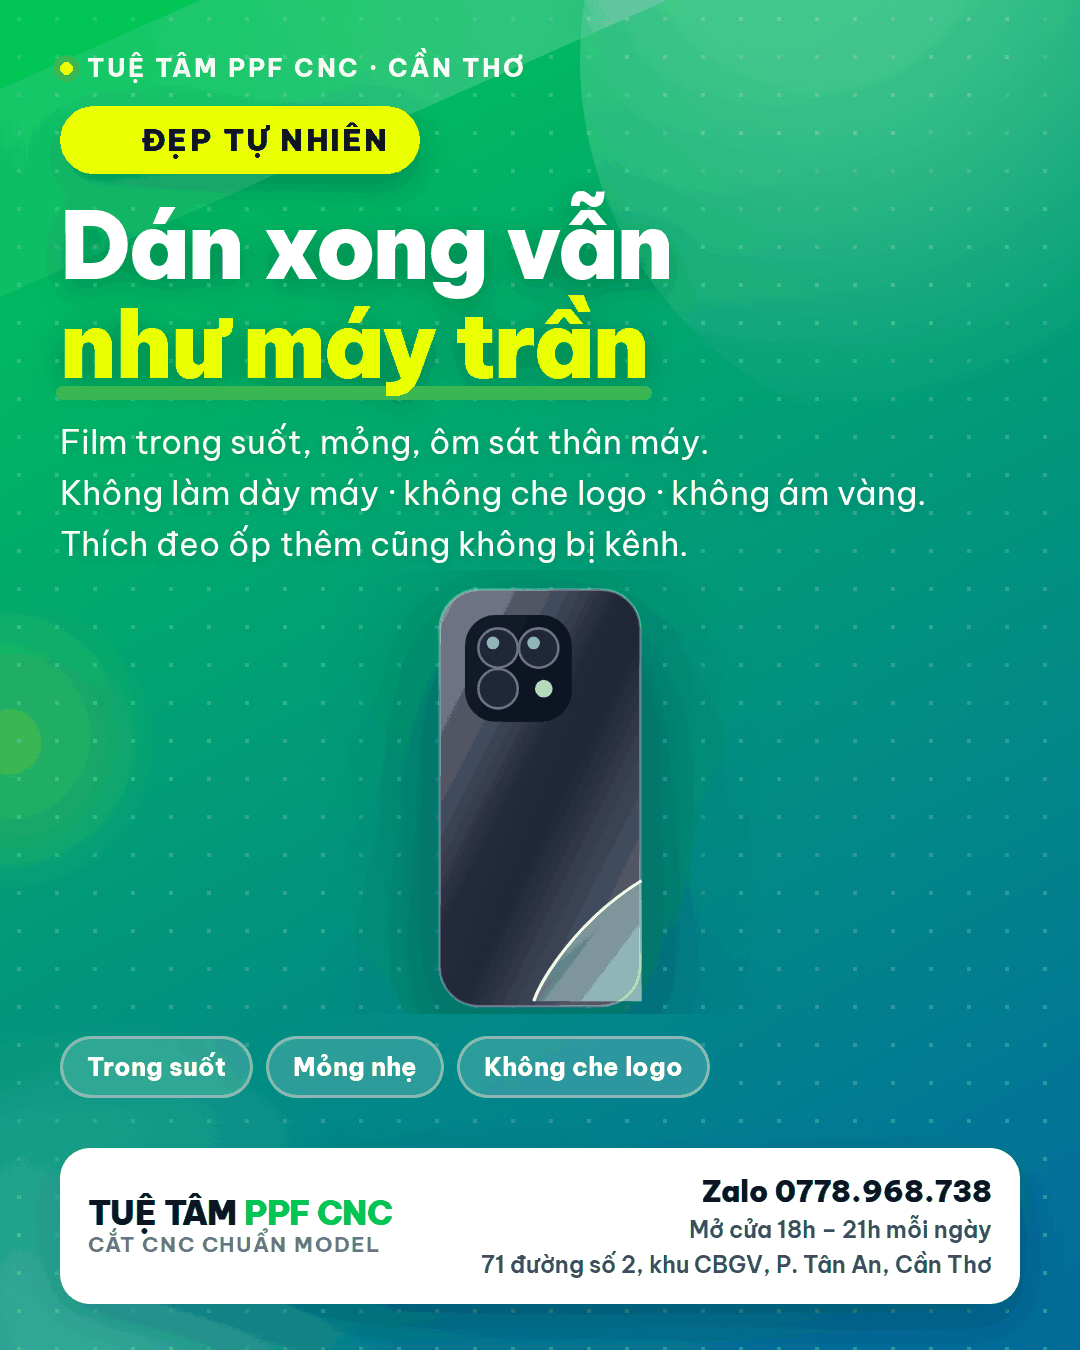
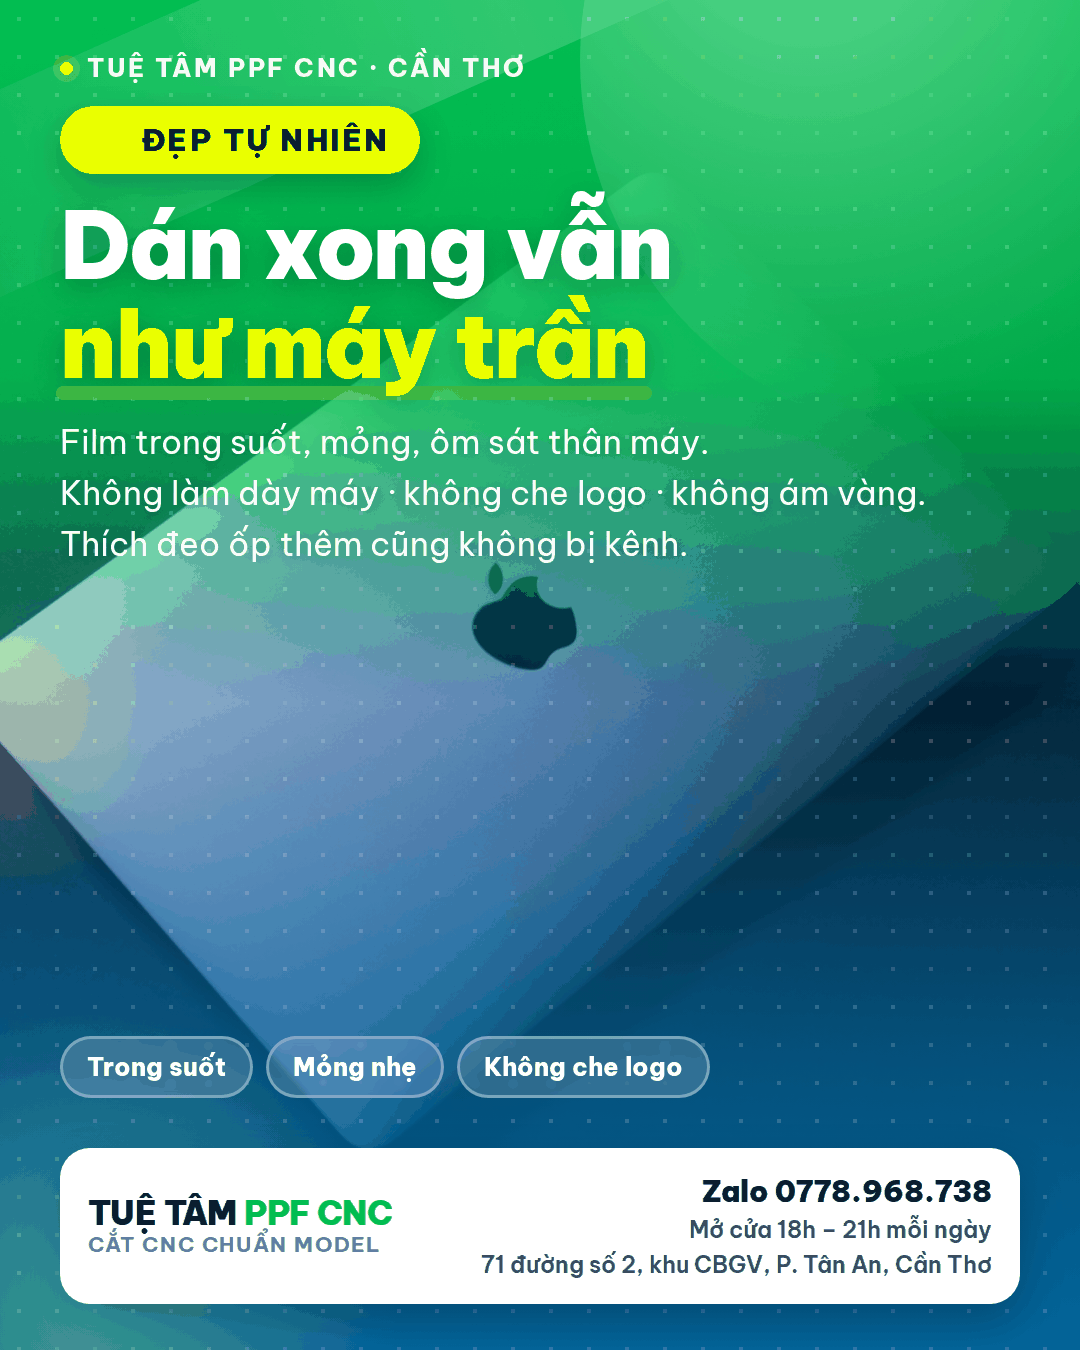
Dung anh chup that lam nen cho 5 bai (laptop, tiem)
- Them co che anh nen full-bleed: bai nao co anh trong media/thuc-te/
  thi anh phu kin tam 1080x1350, phu mot lop mau thuong hieu de chu van
  doc ro, thay cho khung anh nho truoc day.
- Anh laptop that cho bai 04 (laptop tray nap), 11 (dep tu nhien),
  16 (bao gia nhanh). Bai 08 (gio mo cua) va 12 (dia chi) dung anh mat
  tien tiem.
- Bai gio mo cua: bo dong "18h - 21h" khong lo khi da co anh nen,
  tranh de chu len bang hieu.
- render_png.py them tuy chon --net-cao de giu mau goc cho tam co anh
  chup that (mac dinh van nen lai cho file nhe).

Claude-Session: https://claude.ai/code/session_017SFhPnJtoMKDMb2h8va2Fo

diff --git a/tools/gen_infographics.py b/tools/gen_infographics.py
@@ -347,6 +347,10 @@ body{width:%(W)dpx;height:%(H)dpx;font-family:'BVP','Be Vietnam Pro',
     background:radial-gradient(circle at 50%% 50%%,%(soft)s6b,#ffffff00 70%%)}
 .b3{width:300px;height:300px;top:44%%;left:-140px;
     background:radial-gradient(circle,%(ac)s3d,#ffffff00 70%%)}
+.bgphoto{position:absolute;inset:0;background-size:cover;background-position:%(pos)s;
+          filter:saturate(1.05)}
+.scrim{position:absolute;inset:0;background:linear-gradient(180deg,
+       %(c1)sf0 0%%,%(c1)sd6 28%%,%(c2)s4a 52%%,%(c2)sb8 78%%,%(c2)sf5 100%%)}
 .dots{position:absolute;inset:0;opacity:.16;
       background-image:radial-gradient(#fff 2.4px,transparent 2.4px);
       background-size:38px 38px}
@@ -432,7 +436,7 @@ h1{margin-top:22px;font-size:%(tsize)dpx;line-height:1.08;font-weight:900;
 """
 
 TPL = """<meta charset="utf-8"><style>%(font)s%(css)s</style>
-<div class="bg"><div class="ray"></div><div class="dots"></div>
+<div class="bg">%(bgphoto)s<div class="ray"></div><div class="dots"></div>
 <div class="blob b1"></div><div class="blob b2"></div><div class="blob b3"></div></div>
 <div class="card">
   <div class="top"><span class="dot"></span>TUỆ TÂM PPF CNC · CẦN THƠ</div>
@@ -475,19 +479,21 @@ def _panel(kind, title, items):
     )
 
 
-def build_body(post):
+def build_body(post, anh_nen=False):
+    """anh_nen=True nghia la tam nay da co anh that lam nen -> khong ve mockup."""
     lay = post["layout"]
-    photo = anh_that(post["id"])
 
     if lay in ("hero", "cta"):
-        if photo:
-            visual = '<div class="stage"><img class="photo" src="%s"></div>' % photo
+        if anh_nen:
+            visual = ""
         elif lay == "cta":
             visual = '<div class="stage">%s</div>' % DEVICES["combo"]()
         else:
             visual = '<div class="stage">%s</div>' % DEVICES[post["device"]]()
         extra = ('<div class="zbox"><div class="lbl">NHẮN ZALO</div>'
                  '<div class="num2">%s</div></div>' % ZALO) if lay == "cta" else ""
+        if anh_nen and lay == "hero":
+            extra = '<div class="stage"></div>'  # chua cho anh nen tho ra
         return _lines(post) + visual + extra
 
     if lay in ("compare", "policy"):
@@ -507,10 +513,9 @@ def build_body(post):
         return '<div class="items">%s</div>' % items
 
     if lay in ("hours", "address"):
-        src = photo or data_uri(REPO / "media" / "mat-tien.jpg")
-        big = '<div class="big">18h – 21h</div>' if lay == "hours" else ""
-        return (_lines(post) + big +
-                '<div class="stage"><img class="photo" src="%s"></div>' % src)
+        # Co anh nen thi bo dong gio khong lo di cho khoi de len bang hieu.
+        big = '<div class="big">18h – 21h</div>' if lay == "hours" and not anh_nen else ""
+        return _lines(post) + big + '<div class="stage"></div>' 
 
     raise ValueError("layout la: " + lay)
 
@@ -520,12 +525,18 @@ def main():
     manifest = []
     for p in POSTS:
         th = THEMES[p["theme"]]
+        src = anh_that(p["id"])
+        if not src and p["layout"] in ("hours", "address"):
+            src = data_uri(REPO / "media" / "mat-tien.jpg")
+        bgphoto = ('<div class="bgphoto"></div><div class="scrim"></div>') if src else ""
         longest = max(len(_plain(l)) for l in p["title"].split("\n"))
         tsize = 92 if longest <= 18 else (82 if longest <= 24 else 72)
-        css = CSS % dict(W=W, H=H, tsize=tsize, **th)
+        css = CSS % dict(W=W, H=H, tsize=tsize, pos=p.get("photo_pos", "center"), **th)
+        if src:
+            css += ".bgphoto{background-image:url(%s)}" % src
         html = TPL % dict(
-            font=font, css=css, emoji=p["emoji"], kicker=p["kicker"],
-            title=_hl(p["title"]), body=build_body(p), chips=_chips(p),
+            font=font, css=css, emoji=p["emoji"], kicker=p["kicker"], bgphoto=bgphoto,
+            title=_hl(p["title"]), body=build_body(p, bool(src)), chips=_chips(p),
             zalo=ZALO, hours=HOURS, addr=ADDR,
         )
         name = "ppf-%s" % p["id"]

diff --git a/tools/render_png.py b/tools/render_png.py
@@ -31,7 +31,17 @@ def chrome():
     sys.exit("Khong tim thay Chrome/Chromium — dat bien moi truong CHROME=...")
 
 
-def nen(path):
+# Mac dinh ha bang mau 256 (file nhe gap ~6 lan, len Facebook nhin nhu nhau).
+# Muon giu mau goc cho tam co anh chup that thi chay them co --net-cao.
+NET_CAO = "--net-cao" in sys.argv
+
+
+def co_anh_that(html_path):
+    """Tam nao dung anh chup that lam nen (de chon che do nen anh)."""
+    return "bgphoto{background-image" in html_path.read_text(encoding="utf-8")
+
+
+def nen(path, giu_mau_that=False):
     """Giam dung luong anh xuong con ~1/6 ma mat thuong khong thay khac.
 
     Anh infographic it mau nen ha ve bang mau 256 mau la du dep, file nhe
@@ -42,12 +52,16 @@ def nen(path):
     except ImportError:
         return
     im = Image.open(path).convert("RGB")
+    if giu_mau_that:
+        im.save(path, optimize=True)
+        return
     im.quantize(colors=256, method=Image.MEDIANCUT,
                 dither=Image.FLOYDSTEINBERG).save(path, optimize=True)
 
 
 def main():
-    src = Path(sys.argv[1] if len(sys.argv) > 1 else "media/auto")
+    args = [a for a in sys.argv[1:] if not a.startswith("--")]
+    src = Path(args[0] if args else "media/auto")
     exe = chrome()
     files = sorted(src.glob("*.html"))
     with tempfile.TemporaryDirectory() as profile:
@@ -63,7 +77,7 @@ def main():
                 "--window-size=%d,%d" % (W, H),
                 "--screenshot=" + str(out), f.resolve().as_uri(),
             ], check=True, stdout=subprocess.DEVNULL, stderr=subprocess.DEVNULL)
-            nen(out)
+            nen(out, NET_CAO and co_anh_that(f))
             print("  ->", out.name, "%d KB" % (out.stat().st_size // 1024))
     print("Da render %d anh" % len(files))
 
